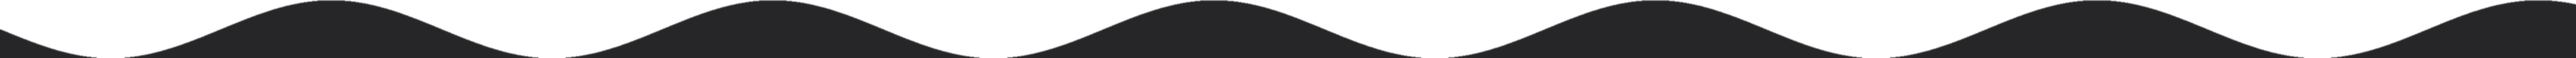
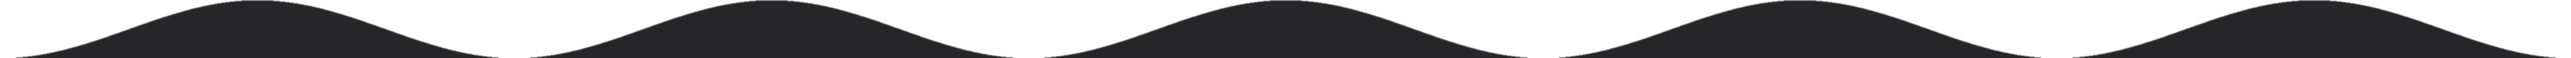
Finished top of homepage

diff --git a/src/pages/index.js b/src/pages/index.js
@@ -3,25 +3,33 @@ import page from "../app/css/main_page.module.css";
 import styles from "../app/css/main.module.css";
 import globals from "../app/css/globals.css";
 import { Button } from "@mui/material";
+import Link from "next/link";
+
+import { useEffect } from "react";
 
 export default function Home() {
 
-  /*useEffect(() => {
+  useEffect(() => {
     if (document == undefined) return;
     
     const sine = document.getElementById("sine-img");
-    setInterval(() => {
-      
-      sine.style.top = "" + (parseInt(sine.style.top) - 5) + "px";
-    }, 10)
-  });*/
+    const iid = setInterval(() => {
+      var x = parseInt(sine.style.left)
+      if (isNaN(x)) x = 0
+      x = x % 384;
+      sine.style.left = "" + (x-1) + "px";
+    }, 60);
+    return () => {clearInterval(iid);}
+  });
 
   return (<>
     <div className={page.main}>
       <div className={page.header}>
         <div className={page.header_gradient}></div>
-        <div className={page.sine_img} id="sine-img">
-          <Image src="/sine.png" width="1920" height="50" alt="Sine"></Image>
+        <div className={page.sine_img_container}>
+          <div className={page.sine_img} id="sine-img">
+            <Image src="/sine.png" width="1920" height="50" alt="Sine"></Image>
+          </div>
         </div>
         <div className={page.header_menu_container}>
           <div className={styles.flex + " " + styles.hide_on_mobile}  style={{justifyContent: "right", gap: "10px"}}>
@@ -44,7 +52,9 @@ export default function Home() {
             <div className={styles.box + " " + styles.margin_auto} style={{width: "35%", height: "300px"}}>
               <h1 style={{letterSpacing: "1px", fontSize: "40pt"}}>Find the perfect scholarship</h1>
               <div style={{marginTop: "50px"}}>
-                <Button variant="contained" style={{backgroundColor: "#CFB87C", minWidth: "200px", maxWidth: "200px", minHeight: "61px", maxHeight: "61px", fontSize: "14pt"}}>Get Started</Button>
+                <Link href="/search">
+                  <Button variant="contained" style={{backgroundColor: "#CFB87C", minWidth: "200px", maxWidth: "200px", minHeight: "61px", maxHeight: "61px", fontSize: "14pt"}}>Get Started</Button>
+                </Link>
               </div>
             </div>
         </div>

diff --git a/src/app/css/main_page.module.css b/src/app/css/main_page.module.css
@@ -18,12 +18,17 @@
   align-items: right;
 }
 
-.sine_img{
+.sine_img_container{
   position: absolute;
-  top: 301px;
-  left: 0px;
-  width: 100%;
   overflow: hidden;
+  width: 100%;
+  left: 0px;
+  top: 301px;
+}
+
+.sine_img{
+  position: relative;
+  left: 0px;
 }
 
 .header_menu_item{

diff --git a/python/create_sin.py b/python/create_sin.py
@@ -2,13 +2,13 @@
 import PIL.Image, math
 import PIL.ImageFilter
 
-width = 2304*2
+width = 2300*2
 height = 104
 
 img = PIL.Image.new("RGBA", (width, height), (0, 0, 0, 0))
 
 for i in range(width):
-    s = int(height*(math.sin(i/(2*math.pi*20))+1)/2)
+    s = int(height*(math.cos(math.pi*i/460)+1)/2)
     for j in range(s, height-1):
         img.putpixel((i, j+1), (38, 37, 40))
 
